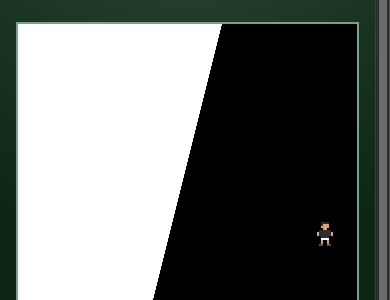
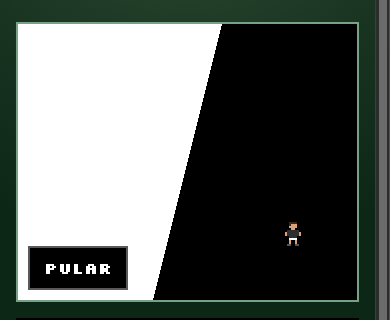
fix(web): botão Pular do VS e flash usam as cores do tema (bg-black e bg-white não existem)

diff --git a/apps/web/src/features/lineup/vs-board.tsx b/apps/web/src/features/lineup/vs-board.tsx
@@ -81,7 +81,7 @@ export function VsBoard({ roundId, counts, myTeam }: VsBoardProps) {
           <TeamBlock team="WHITE" phase={phase} count={counts.WHITE} />
           <TeamBlock team="BLACK" phase={phase} count={counts.BLACK} />
           {phase === 'entry' && <SpeedLines />}
-          {phase === 'clash' && <div className="animate-vs-flash absolute inset-0 bg-white" />}
+          {phase === 'clash' && <div className="animate-vs-flash absolute inset-0 bg-team-white" />}
           <span
             style={final && !animated ? { transform: 'rotate(-6deg)' } : undefined}
             className={cn(
@@ -100,7 +100,7 @@ export function VsBoard({ roundId, counts, myTeam }: VsBoardProps) {
         <button
           type="button"
           onClick={() => setPhase('final')}
-          className="absolute bottom-3 left-3 inline-flex min-h-11 items-center bg-black px-4 text-team-white shadow-[inset_0_0_0_2px_rgb(255_255_255/35%)] active:bg-surface-3"
+          className="absolute bottom-3 left-3 inline-flex min-h-11 items-center bg-team-black px-4 text-team-white shadow-[inset_0_0_0_2px_rgb(255_255_255/35%)] active:bg-surface-3"
         >
           <PixelText>Pular</PixelText>
         </button>
@@ -168,8 +168,8 @@ function SpeedLines() {
     <>
       <span style={from('-96px')} className={cn(line, 'top-6 left-1 w-3.5 bg-[#111]')} />
       <span style={from('-96px')} className={cn(line, 'top-8 left-1 w-2.5 bg-[#111]')} />
-      <span style={from('96px')} className={cn(line, 'right-1 bottom-8 w-3.5 bg-white')} />
-      <span style={from('96px')} className={cn(line, 'right-1 bottom-6 w-2.5 bg-white')} />
+      <span style={from('96px')} className={cn(line, 'right-1 bottom-8 w-3.5 bg-team-white')} />
+      <span style={from('96px')} className={cn(line, 'right-1 bottom-6 w-2.5 bg-team-white')} />
     </>
   );
 }

diff --git a/apps/web/src/features/lineup/theme-classes.test.ts b/apps/web/src/features/lineup/theme-classes.test.ts
@@ -1,0 +1,18 @@
+import { readFileSync } from 'node:fs';
+import { describe, expect, it } from 'vitest';
+
+// O tema zera as cores do Tailwind (`--color-*: initial`): bg-white, bg-black, text-white e text-black
+// não geram nada. Foi o que deixou o "Pular" do VS invisível.
+const FILES = [
+  'vs-board.tsx',
+  'you-banner.tsx',
+  'you-tag.tsx',
+  '../../components/ui/pixel-sprite.tsx',
+];
+
+describe('classes de cor do tema', () => {
+  it.each(FILES)('%s só usa cores que existem no tema', (file) => {
+    const source = readFileSync(new URL(file, import.meta.url), 'utf8');
+    expect(source).not.toMatch(/\b(?:bg|text|border|ring|fill|stroke)-(?:white|black)\b/);
+  });
+});
